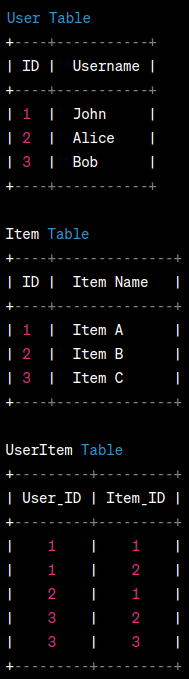
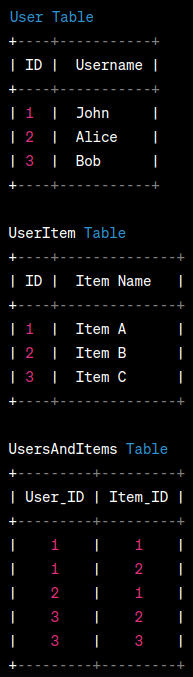
finished adding keywords for belongsToMany method

diff --git a/models/dbModelAssociations.js b/models/dbModelAssociations.js
@@ -46,6 +46,14 @@ User.hasMany(UserPost, { onDelete: "CASCADE" });
 // Model-Association-for-belongsTo-method-for-One-to-Many-Relation
 UserPost.belongsTo(User, { onDelete: "CASCADE" });
 
+// ===============================================================
+
+// Many-to-Many-Relation
+// Model-Association-for-belongsToMany-method
+User.belongsToMany(UserItem, { through: "UsersAndItems" });
+// Model-Association-for-belongsToMany-method
+UserItem.belongsToMany(User, { through: "UsersAndItems" });
+
 module.exports = {
   User,
   UserPass,

diff --git a/README.md b/README.md
@@ -51,7 +51,11 @@ Associations are set for tables. All tables are given down below.
     **hasMany** and **belongsToMany** associations for 2 models.
     - **User** 
     - **UserItem**
+    - **UsersAndItems**, "Join Table" or intermediary table
 
     Keep in mind that, for many to many relations, and intermediary table is needed which is called "join table". Here is an example for many to many relation tables for User, UserItem and intermediary table.
 
-    ![ManyToManyImage](./readme-pictures/manyToMany.png) 
+    ![ManyToManyImage](./readme-pictures/manyToMany.png)
+
+    Here are the keywords for related associations.
+        - **Model-Association-for-belongsToMany-method**
